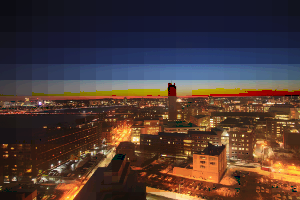
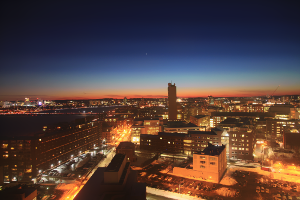
solve bug of fast bilateral

diff --git a/src/filtering.cpp b/src/filtering.cpp
@@ -393,14 +393,14 @@ float trilinear_interpolation(const Array_3D<float> &array, float x, float y, fl
 	int y_size = array.y_size();
 	int z_size = array.z_size();
 
-	float x_index = clamp(0, x_size - 1, x);
-	float xx_index = clamp(0, x_size - 1, x_index + 1);
+	int x_index = clamp(0, x_size - 1, x);
+	int xx_index = clamp(0, x_size - 1, x_index + 1);
 
-	float y_index = clamp(0, y_size - 1, y);
-	float yy_index = clamp(0, y_size - 1, y_index + 1);
+	int y_index = clamp(0, y_size - 1, y);
+	int yy_index = clamp(0, y_size - 1, y_index + 1);
 
-	float z_index = clamp(0, z_size - 1, z);
-	float zz_index = clamp(0, z_size - 1, z_index + 1);
+	int z_index = clamp(0, z_size - 1, z);
+	int zz_index = clamp(0, z_size - 1, z_index + 1);
 
 	float x_alpha = x - x_index;
 	float y_alpha = y - y_index;
@@ -415,7 +415,7 @@ float trilinear_interpolation(const Array_3D<float> &array, float x, float y, fl
 		   (1.0f - x_alpha) * y_alpha * z_alpha * array(x_index, yy_index, zz_index) +
 		   x_alpha * y_alpha * z_alpha * array(xx_index, yy_index, zz_index);
 }
-float clamp(float min_value, float max_value, float x)
+float clamp(int min_value, int max_value, int x)
 {
 	return std::max(std::min(x, (max_value)), (min_value));
 }

diff --git a/src/filtering.h b/src/filtering.h
@@ -58,7 +58,7 @@ FloatImage bilateral(const FloatImage &im, float sigmaRange = 0.1, float sigmaDo
 FloatImage bilaYUV(const FloatImage &im, float sigmaRange = 0.1, float sigmaY = 1.0, float sigmaUV = 4.0, float truncateDomain = 3.0, bool clamp = true);
 FloatImage fastBilateral(const FloatImage &im, float sigmaRange = 0.1, float sigmaDomain = 1.0, int truncateDomain = 5.0, float samplingD = 1.0, float samplingR = 0.05);
 float trilinear_interpolation(const Array_3D<float> &array, float x, float y, float z);
-float clamp(float min_value, float max_value, float x);
+float clamp(int min_value, int max_value, int x);
 // Return impulse image of size kxkx1
 FloatImage impulseImg(const int &k);
 

diff --git a/src/final_project_main.cpp b/src/final_project_main.cpp
@@ -119,7 +119,7 @@ int main()
 {
 	//testPanoramicTrans();
 	//testCompositing();
-	//testFastBilateral();
+	testFastBilateral();
 	//CompareTwoBilateral();
-	testMakeNaiveHdr_Room();
+	//testMakeNaiveHdr_Room();
 }
